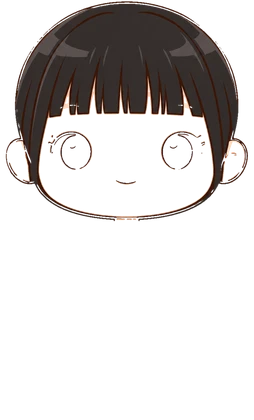
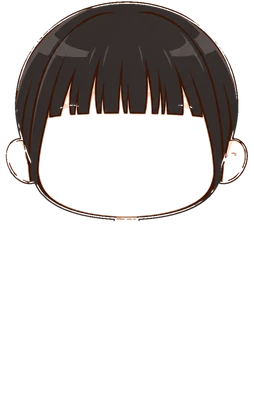
Doll character: tee outfit and happy face
- Each outfit is a full image of the bald doll wearing it, cut into its
  own body, arms and legs so sleeves swing with the arms
- Expressions take only the face area and sit between body and bangs;
  the hair layer no longer carries the long-hair image's eyes
- Doll defaults to long hair and the tee; cache v33

Claude-Session: https://claude.ai/code/session_01HNLjjDhwiWZnZmJhscAi2v

Changed region(s): [[0.1929, 0.3095, 0.3858, 0.4024], [0.6339, 0.3095, 0.7992, 0.4024], [0.4685, 0.4333, 0.5236, 0.4643]]

diff --git a/public/room.js b/public/room.js
@@ -16,10 +16,10 @@ const STYLE_LOOKS = {
   },
   doll: {
     hair: [['long', '長直髮'], ['', '光頭']],
-    cloth: [['', '運動服']],
+    cloth: [['tee', 'T 恤'], ['', '運動服']],
   },
 };
-const STYLE_DEFAULT = { classic: { hair: 'ponytail', cloth: 'tee' }, doll: { hair: 'long', cloth: '' } };
+const STYLE_DEFAULT = { classic: { hair: 'ponytail', cloth: 'tee' }, doll: { hair: 'long', cloth: 'tee' } };
 export const LOOKS = STYLE_LOOKS.classic;
 export const looksFor = (style) => STYLE_LOOKS[style] || LOOKS;
 export const DEFAULT_LOOK = { style: 'classic', ...STYLE_DEFAULT.classic };
@@ -42,10 +42,15 @@ const SYM = { angry: true };
 // 復古娃娃：每張 254×420，腳底在 (126.5, 419.7)；手腳繞關節轉（art/tools/doll.py 印出來的數字）
 const DOLL_W = 254, DOLL_H = 420, DOLL_FOOT = [126.5, 419.7];
 const DOLL_JOINTS = { arm_l: [99.6, 236.9], arm_r: [153.4, 236.9], leg_l: [110.1, 306.8], leg_r: [142.9, 306.8] };
-const dollParts = (hair) => [hair && `hair_${hair}_back`, 'arm_l', 'arm_r', 'leg_l', 'leg_r', 'body', hair && `hair_${hair}_front`];
+const DOLL_FACES = new Set(['happy']); // 微笑畫在身體上，其他表情是另外一層
+const dollFace = (face) => (DOLL_FACES.has(face) ? `face_${face}` : null);
+const dollParts = (hair, cloth, face) => {
+  const c = cloth ? `_${cloth}` : '';
+  return [hair && `hair_${hair}_back`, `arm_l${c}`, `arm_r${c}`, `leg_l${c}`, `leg_r${c}`, `body${c}`, dollFace(face), hair && `hair_${hair}_front`];
+};
 export function lookLayers(look, face = 'smile') {
   const l = normalizeLook(look);
-  if (l.style === 'doll') return dollParts(l.hair).filter(Boolean).map((f) => `${BASE}doll/${f}.webp`);
+  if (l.style === 'doll') return dollParts(l.hair, l.cloth, face).filter(Boolean).map((f) => `${BASE}doll/${f}.webp`);
   return [
     l.hair && `hair_${l.hair}_back`, 'body', l.cloth && `cloth_${l.cloth}`, `face_${face}`, l.hair && `hair_${l.hair}_front`, SYM[face] && `sym_${face}`,
   ].filter(Boolean).map((f) => `${BASE}char/${f}.webp`);
@@ -142,8 +147,10 @@ export class Room {
     this.joints = {};
     const dollImg = (name, parent) => el('image', { href: `${BASE}doll/${name}.webp`, width: DOLL_W, height: DOLL_H }, parent);
     this.dollHair.back = dollImg('hair_long_back', this.doll);
-    for (const j of ['arm_l', 'arm_r', 'leg_l', 'leg_r']) { this.joints[j] = el('g', { class: `doll-${j}` }, this.doll); dollImg(j, this.joints[j]); }
-    dollImg('body', this.doll);
+    this.dollBody = {};
+    for (const j of ['arm_l', 'arm_r', 'leg_l', 'leg_r']) { this.joints[j] = el('g', { class: `doll-${j}` }, this.doll); this.dollBody[j] = dollImg(j, this.joints[j]); }
+    this.dollBody.body = dollImg('body', this.doll);
+    this.dollFace = dollImg('face_happy', this.doll);
     this.dollHair.front = dollImg('hair_long_front', this.doll);
     this.stride = 0;
     // 泡泡（HTML，字比較清楚）
@@ -189,6 +196,10 @@ export class Room {
         const img = this.dollHair[k];
         if (look.hair) { img.setAttribute('href', `${BASE}doll/hair_${look.hair}_${k}.webp`); img.style.display = ''; } else img.style.display = 'none';
       }
+      const c = look.cloth ? `_${look.cloth}` : '';
+      for (const [k, img] of Object.entries(this.dollBody)) { const href = `${BASE}doll/${k}${c}.webp`; if (img.getAttribute('href') !== href) img.setAttribute('href', href); }
+      const f = dollFace(this.face);
+      if (f) { this.dollFace.setAttribute('href', `${BASE}doll/${f}.webp`); this.dollFace.style.display = ''; } else this.dollFace.style.display = 'none';
       return srcs;
     }
     const want = { 'hair-back': look.hair && `hair_${look.hair}_back`, body: 'body', cloth: look.cloth && `cloth_${look.cloth}`, face: `face_${this.face}`, 'hair-front': look.hair && `hair_${look.hair}_front`, sym: SYM[this.face] && `sym_${this.face}` };

diff --git a/public/app.js b/public/app.js
@@ -1424,7 +1424,7 @@ function renderLook() {
       }, lookHtml(opt, 'smile', `look look-${key === 'hair' ? 'head' : 'body'}`), h('span', {}, name));
     })));
   $('#look-options').replaceChildren(...[styleRow, row('頭髮', 'hair'), row('衣服', 'cloth'),
-    h('p', { class: 'hint' }, draft.style === 'doll' ? '復古娃娃走路會擺手擺腳！表情和衣服陸續加入中。' : '更多髮型和衣服陸續加入中。')].filter(Boolean));
+    h('p', { class: 'hint' }, draft.style === 'doll' ? '復古娃娃走路會擺手擺腳！更多表情和衣服陸續加入中。' : '更多髮型和衣服陸續加入中。')].filter(Boolean));
 }
 async function saveLook() {
   state.profile = { ...state.profile, look: { ...ui.look.draft }, updatedAt: new Date().toISOString() };

diff --git a/public/sw.js b/public/sw.js
@@ -1,5 +1,5 @@
 // 改了任何檔案就把版本號 +1，舊快取才會被清掉
-const CACHE = 'lifelog-v32';
+const CACHE = 'lifelog-v33';
 const ASSETS = [
   './',
   './privacy',
@@ -43,6 +43,12 @@ const ASSETS = [
   './room/doll/hair_long_front.webp',
   './room/doll/leg_l.webp',
   './room/doll/leg_r.webp',
+  './room/doll/arm_l_tee.webp',
+  './room/doll/arm_r_tee.webp',
+  './room/doll/body_tee.webp',
+  './room/doll/leg_l_tee.webp',
+  './room/doll/leg_r_tee.webp',
+  './room/doll/face_happy.webp',
   './manifest.webmanifest',
   './icons/icon-192.png',
   './icons/icon-512.png',

diff --git a/art/tools/doll.py b/art/tools/doll.py
@@ -2,6 +2,8 @@
 #   source/doll_base.webp            光頭素體（手臂離開身體、兩腿分開）
 #   source/doll_hair_long.webp       同一張圖＋長直髮
 #   source/doll_hair_long_tpose.webp 長直髮、雙手平舉：拿來補手臂後面被擋住的頭髮
+#   source/doll_cloth_<名稱>.webp    光頭素體穿上衣服：整套當作那件衣服的身體和手腳
+#   source/doll_expr_<名稱>.webp     光頭素體換表情：只取臉的範圍（眉、眼、嘴、腮紅）
 # 輸出 ../public/room/doll/*.webp，並印出 room.js 要用的尺寸、腳底、關節位置
 import os
 os.chdir(os.path.join(os.path.dirname(os.path.abspath(__file__)), '..'))
@@ -31,6 +33,27 @@ torso &= ~((legL | legR) & (yy > hem))
 def layer(src, m):
     o = src.copy(); o[:, :, 3] *= ndimage.gaussian_filter(m.astype(float), .6); return Image.fromarray(o.astype(np.uint8))
 parts = {k: layer(B, m) for k, m in (('armL', armL), ('armR', armR), ('legL', legL), ('legR', legR), ('torso', torso))}
+
+def outfit(path):
+    """穿了衣服的整張圖 → 身體、左右手、左右腳（用它自己的輪廓，切的位置跟素體一樣）"""
+    C = np.array(Image.open(path).convert('RGBA')).astype(float)
+    C[:, :, 3] = np.where(C[:, :, 3] > 240, 255, C[:, :, 3])
+    mc = C[:, :, 3] > 20
+    pts = lambda q: poly(c(q)) & mc
+    aL = pts([(176, 28), (178, 150), (90, 300), (-40, 300), (-40, 180), (100, 28)])
+    aR = pts([(318, 28), (316, 150), (400, 300), (540, 300), (540, 180), (390, 28)])
+    lL = mc & ~(aL | aR) & (yy > 895) & (np.arange(W)[None, :] < mid)
+    lR = mc & ~(aL | aR) & (yy > 895) & (np.arange(W)[None, :] >= mid)
+    t = mc & ~((aL | aR) & (yy > shoulder)) & ~((lL | lR) & (yy > hem))
+    return {'body': layer(C, t), 'arm_l': layer(C, aL), 'arm_r': layer(C, aR), 'leg_l': layer(C, lL), 'leg_r': layer(C, lR)}
+
+def face(path):
+    """表情圖 → 只留臉（橢圓範圍、邊緣柔和），疊在身體上面、前髮下面"""
+    E = np.array(Image.open(path).convert('RGBA')).astype(float)
+    yx = np.mgrid[:H, :W]
+    reg = ((yx[1] - 625) / 245) ** 2 + ((yx[0] - 460) / 168) ** 2 <= 1
+    E[:, :, 3] = 255 * ndimage.gaussian_filter(reg.astype(float), 6) * (E[:, :, 3] > 128)
+    return Image.fromarray(E.astype(np.uint8))
 # hair from long version
 la = Lg[:, :, 3] > 20
 diff = np.abs(Lg[:, :, :3] - B[:, :, :3]).sum(2)
@@ -38,6 +61,9 @@ back = la & ~ma & (yy < 960)
 lab, n = ndimage.label(back); sz = ndimage.sum(back, lab, range(1, n + 1)); back = np.isin(lab, np.where(sz > 800)[0] + 1)
 front = la & ma & (ndimage.uniform_filter(diff, 5) > 60) & (yy < 660)
 front = ndimage.binary_opening(front, iterations=1)
+# 臉（瀏海下緣以下、兩側頭髮以內）屬於表情圖層：不然長髮圖的眼睛嘴巴會蓋在別的表情上
+_yx = np.mgrid[:H, :W]
+front &= ~((((_yx[1] - 625) / 228) ** 2 + ((_yx[0] - 460) / 165) ** 2 <= 1) & (_yx[0] > 362))
 # hair hidden behind the arms comes from the T-pose image (same character, arms lifted out of the way)
 T = np.array(Image.open('source/doll_hair_long_tpose.webp').convert('RGBA')).astype(float)
 Thair = (T[:, :, 3] > 128) & (T[:, :, :3].sum(2) < 420)
@@ -62,6 +88,12 @@ PIV = {'arm_l': (548, 705), 'arm_r': (702, 705), 'leg_l': (578, 905), 'leg_r': (
 FOOT = (625, 1228)
 layers = {'body': parts['torso'], 'arm_l': parts['armL'], 'arm_r': parts['armR'], 'leg_l': parts['legL'], 'leg_r': parts['legR'],
           'hair_long_back': hairB, 'hair_long_front': hairF}
+import glob
+for f in sorted(glob.glob('source/doll_cloth_*.webp')):
+    name = f.split('doll_cloth_')[1][:-5]
+    for k, im in outfit(f).items(): layers[f'{k}_{name}'] = im
+for f in sorted(glob.glob('source/doll_expr_*.webp')):
+    layers[f'face_{f.split("doll_expr_")[1][:-5]}'] = face(f)
 bb = None
 for im in layers.values():
     ys, xs = np.where(np.array(im)[:, :, 3] > 10)
@@ -72,4 +104,5 @@ OUT = '../public/room/doll'; os.makedirs(OUT, exist_ok=True)
 for name, im in layers.items():
     im.crop(bb).resize((OUT_W, OUT_H), Image.LANCZOS).save(f'{OUT}/{name}.webp', 'WEBP', quality=90)
 t = lambda p: [round((p[0] - bb[0]) * k, 1), round((p[1] - bb[1]) * k, 1)]
+print('layers', sorted(layers))
 print('size', OUT_W, OUT_H, 'foot', t(FOOT), 'pivots', {n: t(p) for n, p in PIV.items()})
